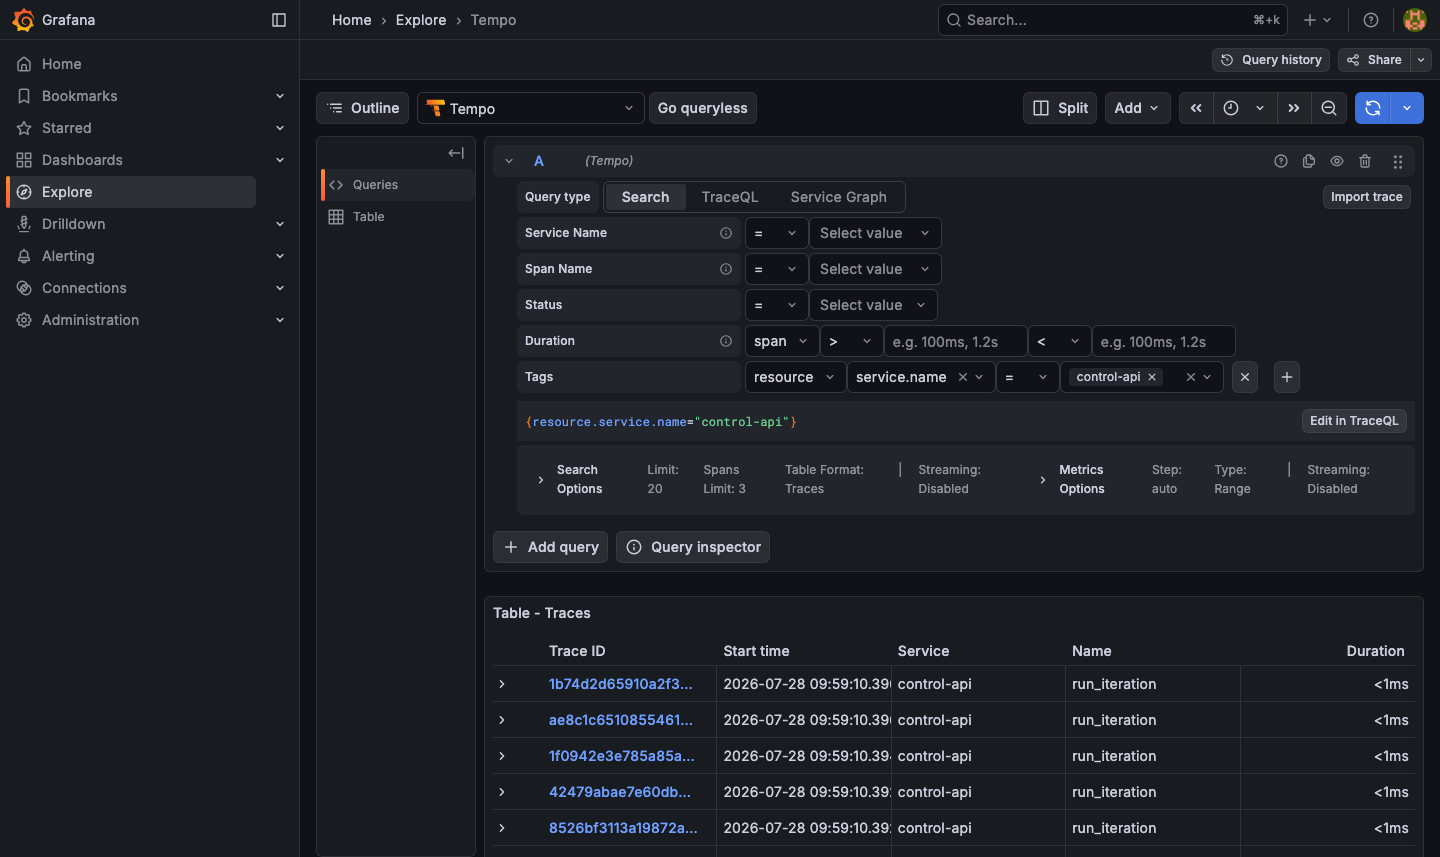
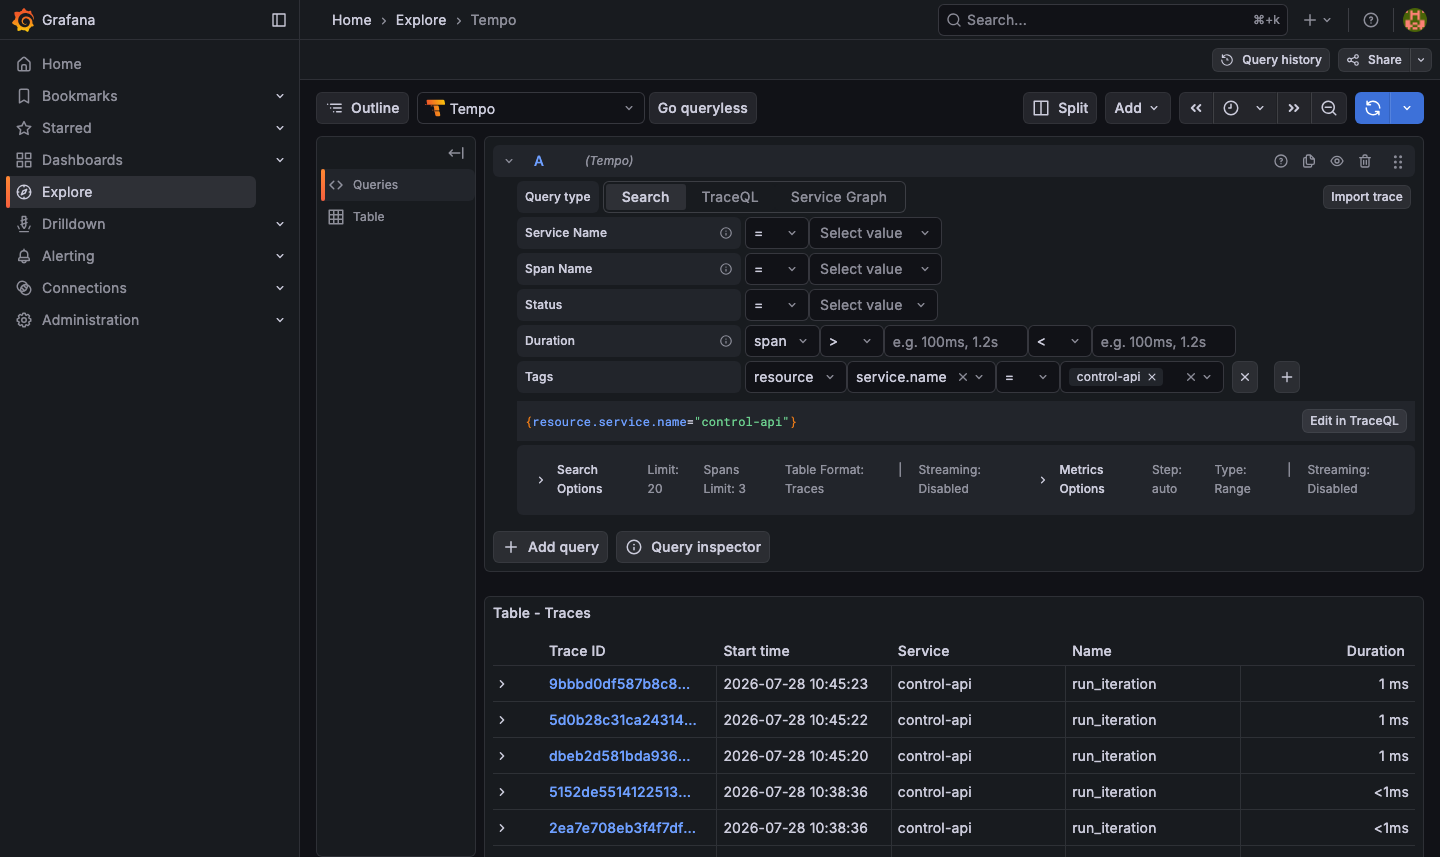
prod: fix the reviewer path and capture live-environment screenshots
Walking the architect's review path - open the app, read the API docs, find the
dashboards - turned up three defects no automated check covers, because none of
them opens a browser:

- Swagger at /api/docs rendered "Unable to render this definition": FastAPI
  loads its spec from an absolute /openapi.json, which nginx's "location /"
  fallback answered with the console's index.html. The API was healthy the whole
  time. Added a location that proxies /openapi.json to control-api.
- print-urls.sh printed URLs that did not answer - a hardcoded port 8080 when
  k3d had published 8090, and ingress hostnames for services that have no
  Ingress. It now reads the published load-balancer port and the real Ingress
  host from the cluster.
- build-images.sh could not push on an ordinary laptop, because the k3d registry
  hostname resolves inside the cluster but not on the host. Falls back to
  "k3d image import".

Adds deploy/scripts/port-forward-uis.sh (make dashboards) holding every
ClusterIP dashboard open and restarting a forward that drops - a dropped forward
makes Superset charts report "Unexpected error" as though the data were bad -
plus make targets for evidence and dashboard import, and a reviewer section in
the module README.

Evidence: six screenshots captured from the running local stack after the fix,
and a re-run of the collector (8 hops, 8 passed).

Issue: #11

Changed region(s): [[0.375, 0.7888, 0.4688, 0.9708], [0.5625, 0.8798, 0.625, 0.9708], [0.5625, 0.7888, 0.625, 0.8495]]

diff --git a/prod/docs/lessons/2026-07-28-prod-integration.md b/prod/docs/lessons/2026-07-28-prod-integration.md
@@ -5,7 +5,7 @@ merged its delivery system into the repository SDLC. Each lesson states the
 correction and where it is now codified.
 
 The theme running through all of them: **a component can look healthy while producing
-nothing.** Five of the nine findings below are silent failures - not crashes, not red
+nothing.** Five of the ten findings below are silent failures - not crashes, not red
 builds, but green surfaces over broken plumbing. That is the failure mode this module
 exists to catch in other people's systems, and it was catching us.
 
@@ -150,7 +150,36 @@ scanner switched off, which is L1 again in a different costume.
 reason inline. Verified by planting a decoy secret and confirming both scanners
 still fire.
 
-## L9. Screenshots carry identity the scanner cannot read
+## L9. A reviewer's path is a surface too, and nobody had walked it
+
+Preparing the running environment for architect review - not the tests, the
+*review* - turned up three defects that every automated check had passed over,
+because no check opens a browser and clicks around:
+
+- **Swagger was broken behind the proxy.** FastAPI's docs page loads its
+  definition from an absolute `/openapi.json`; nginx's `location /` fallback
+  answered that with the console's `index.html`, so Swagger rendered *"Unable to
+  render this definition"* while the API itself was perfectly healthy. Another
+  instance of L3 - two surfaces disagreeing, and the quiet one telling the truth.
+- **`print-urls.sh` printed URLs that did not answer**: a hardcoded port 8080
+  when k3d had published 8090, and ingress hostnames for Grafana, Superset, and
+  Druid that have no Ingress at all.
+- **`build-images.sh` could not push** on an ordinary laptop, because the k3d
+  registry hostname resolves inside the cluster network but not on the host.
+
+**Lesson:** the reviewer's path - open the app, read the API docs, find the
+dashboards - is part of the deliverable and needs walking before handoff. Scripts
+that *print* environment facts should discover them, never assume them; a URL
+printed but unreachable is worse than one not printed.
+
+**Codified:** the nginx `location = /openapi.json` proxy; `print-urls.sh` now
+reads the published load-balancer port and the real Ingress host from the
+cluster; `build-images.sh` falls back to `k3d image import`; and
+`deploy/scripts/port-forward-uis.sh` (`make dashboards`) holds every ClusterIP
+dashboard open and **restarts a forward that drops**, since a dropped forward
+makes Superset charts render "Unexpected error" as though the data were bad.
+
+## L10. Screenshots carry identity the scanner cannot read
 
 A committed product screenshot showed an operator avatar with a contributor's
 initials, hardcoded in the MVP markup as `<div class="operator">CG</div>`. No text

diff --git a/prod/README.md b/prod/README.md
@@ -94,6 +94,45 @@ cd prod
 make verify && make lint && make test && make e2e
 ```
 
+## Reviewing a running stack
+
+Everything a reviewer needs, in three commands:
+
+```bash
+cd prod
+make urls          # discovers the published port and prints what is reachable
+make dashboards    # holds Grafana / Superset / Flink / ClickHouse open (Ctrl-C to stop)
+make evidence      # fresh golden run, then verifies every hop of the chain
+```
+
+| Surface | Where | Credentials |
+|---------|-------|-------------|
+| Operator console | `http://operator.localhost:<lb-port>/` | none |
+| v0.1.0 MVP | `http://operator.localhost:<lb-port>/mvp/` | none |
+| Control API docs | `http://operator.localhost:<lb-port>/api/docs` | none |
+| Grafana (traces) | `http://127.0.0.1:3000` | `admin` / `admin` |
+| Superset (analytics) | `http://127.0.0.1:8088` | `admin` / `admin` |
+| Flink UI | `http://127.0.0.1:8081` | none |
+| ClickHouse | `http://127.0.0.1:8123` | `asc` / `asc` |
+
+`make urls` reads the load-balancer port from the cluster rather than assuming
+one, because k3d publishes whichever host port was free. Grafana, Superset,
+Flink, and ClickHouse are ClusterIP and only reachable while `make dashboards`
+is running; it restarts a forward that drops, since `kubectl port-forward` dies
+under the concurrent queries a dashboard fires and the charts then report
+"Unexpected error" as though the data were bad.
+
+The credentials above are the local demo defaults committed in the manifests. A
+real deployment overrides them from its secret store - see
+[Production configuration](../README.md) in the root README.
+
+To walk the golden path by hand: open the console, **Seed golden experiment**,
+pick `basic_retry (unsafe)` and **Start run** - expect **Blocked** with three
+failing gates - then switch to `transaction_safety (safe)` and re-run for
+**Passed**. The run's data reaches Superset within about a minute (Flink uses
+5-second processing-time windows; ClickHouse ingests from Kafka continuously),
+and its traces appear in Grafana once Tempo flushes its block.
+
 ## The golden workflow
 
 The **Purchase Ambiguity** workflow is the invariant across every environment: the same

diff --git a/prod/docs/evidence/2026-07-28-prod-integration-evidence.md b/prod/docs/evidence/2026-07-28-prod-integration-evidence.md
@@ -26,8 +26,14 @@ explainable scorecard the product exists to produce.
 
 ![Operator console: Blocked release decision with the gate scorecard](2026-07-28-operator-console-blocked.png)
 
-Captured headlessly by driving the console itself - seed, select `basic_retry`, start
-run - so the screenshot is reproducible rather than hand-taken.
+![Operator console: Passed release decision under the safe harness](2026-07-28-operator-console-passed.png)
+
+Both captured headlessly by driving the console itself - seed, pick the harness,
+start the run - so the screenshots are reproducible rather than hand-taken.
+
+The control API behind it, served through the operator-web proxy at `/api/docs`:
+
+![Control API Swagger UI](2026-07-28-control-api-swagger.png)
 
 The v0.1.0 operator surface, re-rendered from the MVP markup in this change:
 
@@ -81,6 +87,11 @@ change a fresh run produces, not by the presence of old data.
 **8 passed, 0 failed.**
 
 ### Analytics and observability surfaces
+
+The Flink SQL session cluster running the failure-statistics job that feeds
+`sim.failure.stats.v1`:
+
+![Flink dashboard: failure_stats job RUNNING](2026-07-28-flink-failure-stats-job.png)
 
 The Superset dashboard, provisioned from
 [`dashboards/superset/failure-analytics/`](../../dashboards/superset/README.md) and
